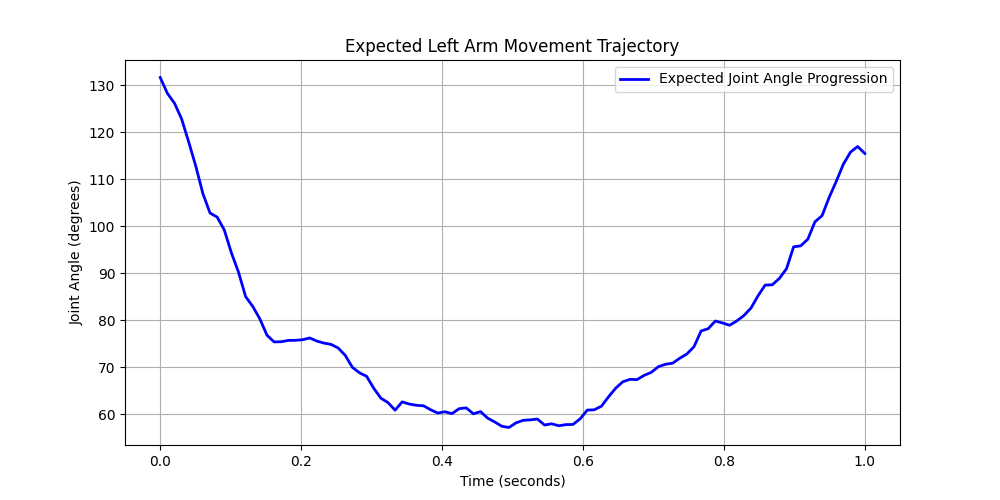
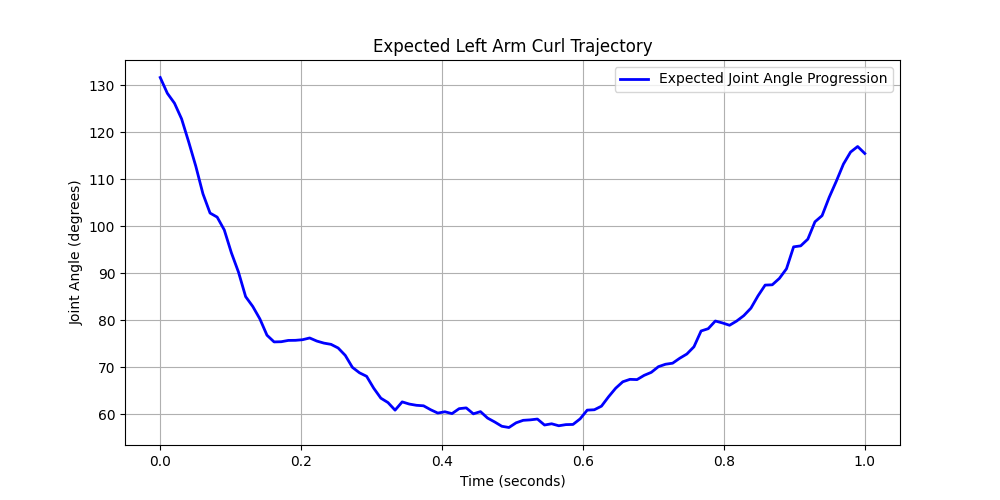
naming

Changed region(s): [[0.341, 0.06, 0.682, 0.12]]

diff --git a/PracticeStudio.py b/PracticeStudio.py
@@ -28,7 +28,10 @@ class PracticeStudio:
             self.desired_joints = ["ShoulderRight", "ElbowRight", "WristRight"]
         if self.movement_type == 1:
             self.desired_joints = ["ShoulderLeft", "ElbowLeft", "WristLeft"]
-
+        if self.movement_type == 4:
+            self.desired_joints = ["ShoulderLeft", "ShoulderRight", "ElbowRight"]
+        if self.movement_type == 5:
+            self.desired_joints = ["ShoulderRight", "ShoulderLeft", "ElbowLeft"]
 
         self.load_and_process_dataset()
 
@@ -54,9 +57,12 @@ class PracticeStudio:
             if len(parts) < 6 or parts[2] != str(movement_type) or parts[4][0] != '2':
                 continue
             file_path = os.path.join(folder_path, file)
-            dataset[file] = self.clean_and_parse_intellirehab_csv(file_path)
+            joint_positions = self.clean_and_parse_intellirehab_csv(file_path)
+            if len(joint_positions) < 10:
+                continue
+            dataset[file] = joint_positions
 
-        print(f"Loaded {len(dataset)} files: {list(dataset.keys())}")
+        # print(f"Loaded {len(dataset)} files: {list(dataset.keys())}")
         return dataset
 
     def clean_and_parse_intellirehab_csv(self, file_path):
@@ -89,11 +95,11 @@ class PracticeStudio:
                 if not all(j in joints for j in self.desired_joints):
                     continue
 
-                shoulder, elbow, wrist = [joints[joint] for joint in self.desired_joints]
-                angle = self.compute_angle(shoulder, elbow, wrist)
+                joint1, joint2, joint3 = [joints[joint] for joint in self.desired_joints]
+                angle = self.compute_angle(joint1, joint2, joint3)
                 angles.append(angle)
 
-            if angles:
+            if angles and len(angles) > 10:
                 all_angles.append(self.normalize_time_series(angles))  # Ensure non-empty lists
 
         if not all_angles:
@@ -114,6 +120,8 @@ class PracticeStudio:
 
     def normalize_time_series(self, data, num_points=100):
         """Resamples a variable-length series to a fixed-length using interpolation."""
+        print("hi", len(data))
+        print(data)
         x_old = np.linspace(0, 1, len(data))
         x_new = np.linspace(0, 1, num_points)
         interpolator = interp1d(x_old, data, kind='linear')
@@ -136,6 +144,10 @@ class PracticeStudio:
             indices = [self.mp_pose.PoseLandmark.LEFT_SHOULDER, self.mp_pose.PoseLandmark.LEFT_ELBOW, self.mp_pose.PoseLandmark.LEFT_WRIST]
         if self.movement_type == 1:
             indices = [self.mp_pose.PoseLandmark.RIGHT_SHOULDER, self.mp_pose.PoseLandmark.RIGHT_ELBOW, self.mp_pose.PoseLandmark.RIGHT_WRIST]
+        if self.movement_type == 4:
+            indices = [self.mp_pose.PoseLandmark.LEFT_SHOULDER, self.mp_pose.PoseLandmark.RIGHT_SHOULDER, self.mp_pose.PoseLandmark.RIGHT_WRIST]
+        if self.movement_type == 5:
+            indices = [self.mp_pose.PoseLandmark.RIGHT_SHOULDER, self.mp_pose.PoseLandmark.LEFT_SHOULDER, self.mp_pose.PoseLandmark.LEFT_WRIST]
 
         joints = {}
         for name, idx in zip(self.desired_joints, indices):
@@ -157,7 +169,16 @@ class PracticeStudio:
         plt.ylabel("Joint Angle (degrees)")
 
         # Title based on movement type
-        movement_name = "Right Arm Movement" if self.movement_type == 1 else "Left Arm Movement"
+
+        if self.movement_type == 0:
+            movement_name = "Left Arm Curl"
+        if self.movement_type == 1:
+            movement_name = "Right Arm Curl"
+        if self.movement_type == 4:
+            movement_name = "Left Shoulder Abduction"
+        if self.movement_type == 5:
+            movement_name = "Right Shoulder Abduction"
+            
         plt.title(f"Expected {movement_name} Trajectory")
         
         plt.legend()
